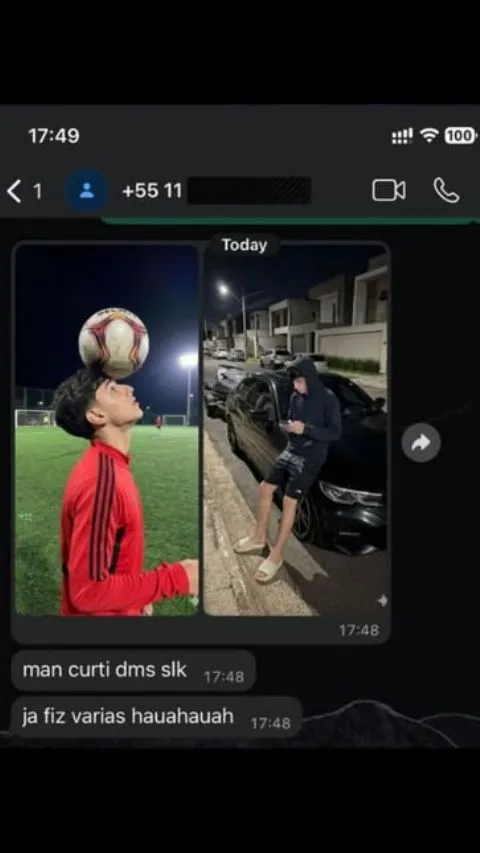
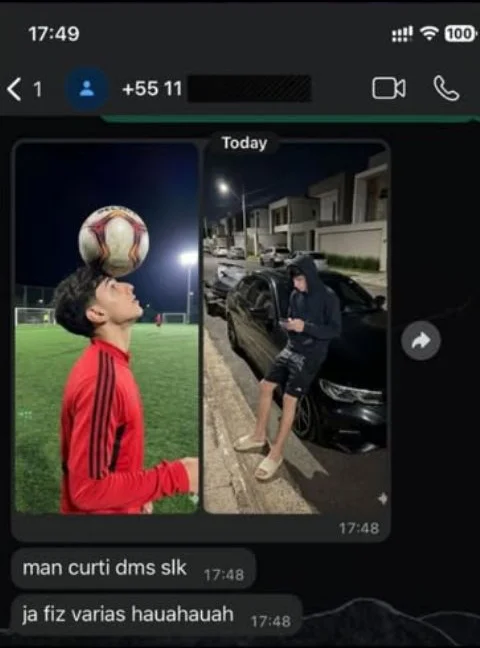
fix: remove faixas pretas dos prints de depoimento
As imagens testi-01 a testi-04 eram os prints de referencia crus, com sobra de espaco preto (bordas do print original) que deixava icones soltos aparecendo no meio de nada. Corta as faixas pretas automaticamente e ajusta o CSS/HTML pra respeitar a proporcao real de cada imagem em vez de forcar aspect-ratio fixo que cortava/distorcia.

diff --git a/index.html b/index.html
@@ -305,7 +305,7 @@ button{cursor:pointer;border:none;font-family:inherit}
   width:100%;height:auto;border-radius:10px;
   border:1px solid var(--border);
   box-shadow:var(--shadow);
-  aspect-ratio:480/853;object-fit:cover;
+  display:block;
 }
 
 /* ─── TIMER + PRICING ────────────────────────────────── */
@@ -725,10 +725,10 @@ footer strong{color:var(--text)}
     <h2 class="section-title">Quem usou não volta mais pro perfil feio</h2>
 
     <div class="testis-grid">
-      <picture><source srcset="./img/testi-01.webp" type="image/webp"><img class="testi-img" src="./img/testi-01.jpg" width="480" height="853" alt="Depoimento 1" loading="lazy" decoding="async"></picture>
-      <picture><source srcset="./img/testi-02.webp" type="image/webp"><img class="testi-img" src="./img/testi-02.jpg" width="480" height="853" alt="Depoimento 2" loading="lazy" decoding="async"></picture>
-      <picture><source srcset="./img/testi-03.webp" type="image/webp"><img class="testi-img" src="./img/testi-03.jpg" width="480" height="853" alt="Depoimento 3" loading="lazy" decoding="async"></picture>
-      <picture><source srcset="./img/testi-04.webp" type="image/webp"><img class="testi-img" src="./img/testi-04.jpg" width="480" height="853" alt="Depoimento 4" loading="lazy" decoding="async"></picture>
+      <picture><source srcset="./img/testi-01.webp" type="image/webp"><img class="testi-img" src="./img/testi-01.jpg" width="480" height="717" alt="Depoimento 1" loading="lazy" decoding="async"></picture>
+      <picture><source srcset="./img/testi-02.webp" type="image/webp"><img class="testi-img" src="./img/testi-02.jpg" width="480" height="491" alt="Depoimento 2" loading="lazy" decoding="async"></picture>
+      <picture><source srcset="./img/testi-03.webp" type="image/webp"><img class="testi-img" src="./img/testi-03.jpg" width="480" height="648" alt="Depoimento 3" loading="lazy" decoding="async"></picture>
+      <picture><source srcset="./img/testi-04.webp" type="image/webp"><img class="testi-img" src="./img/testi-04.jpg" width="480" height="652" alt="Depoimento 4" loading="lazy" decoding="async"></picture>
     </div>
 
     <div style="margin-top:18px;text-align:center;font-size:13.5px;color:var(--muted)">
